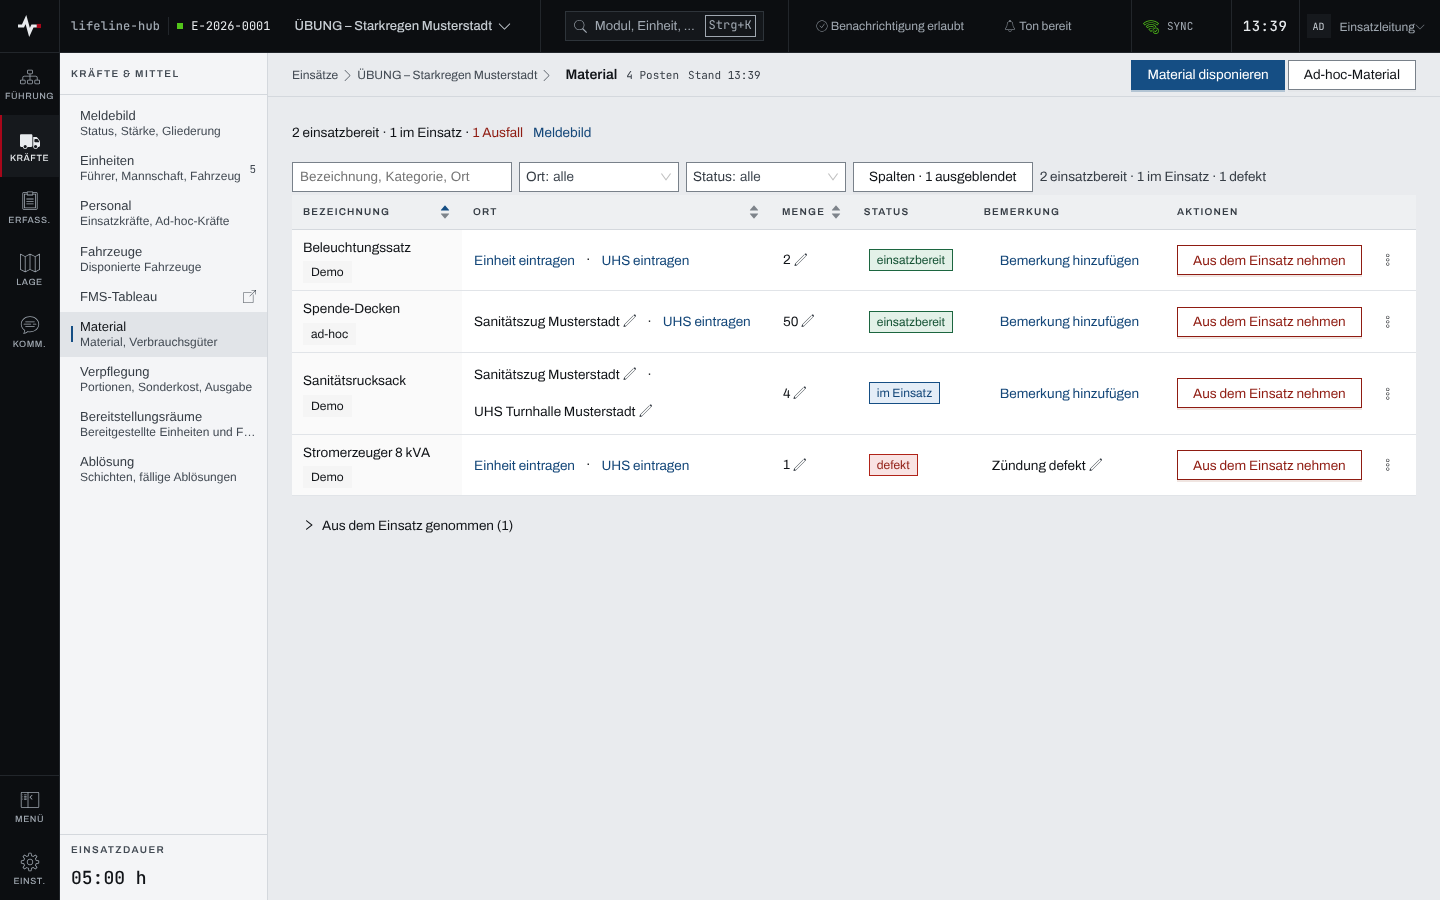
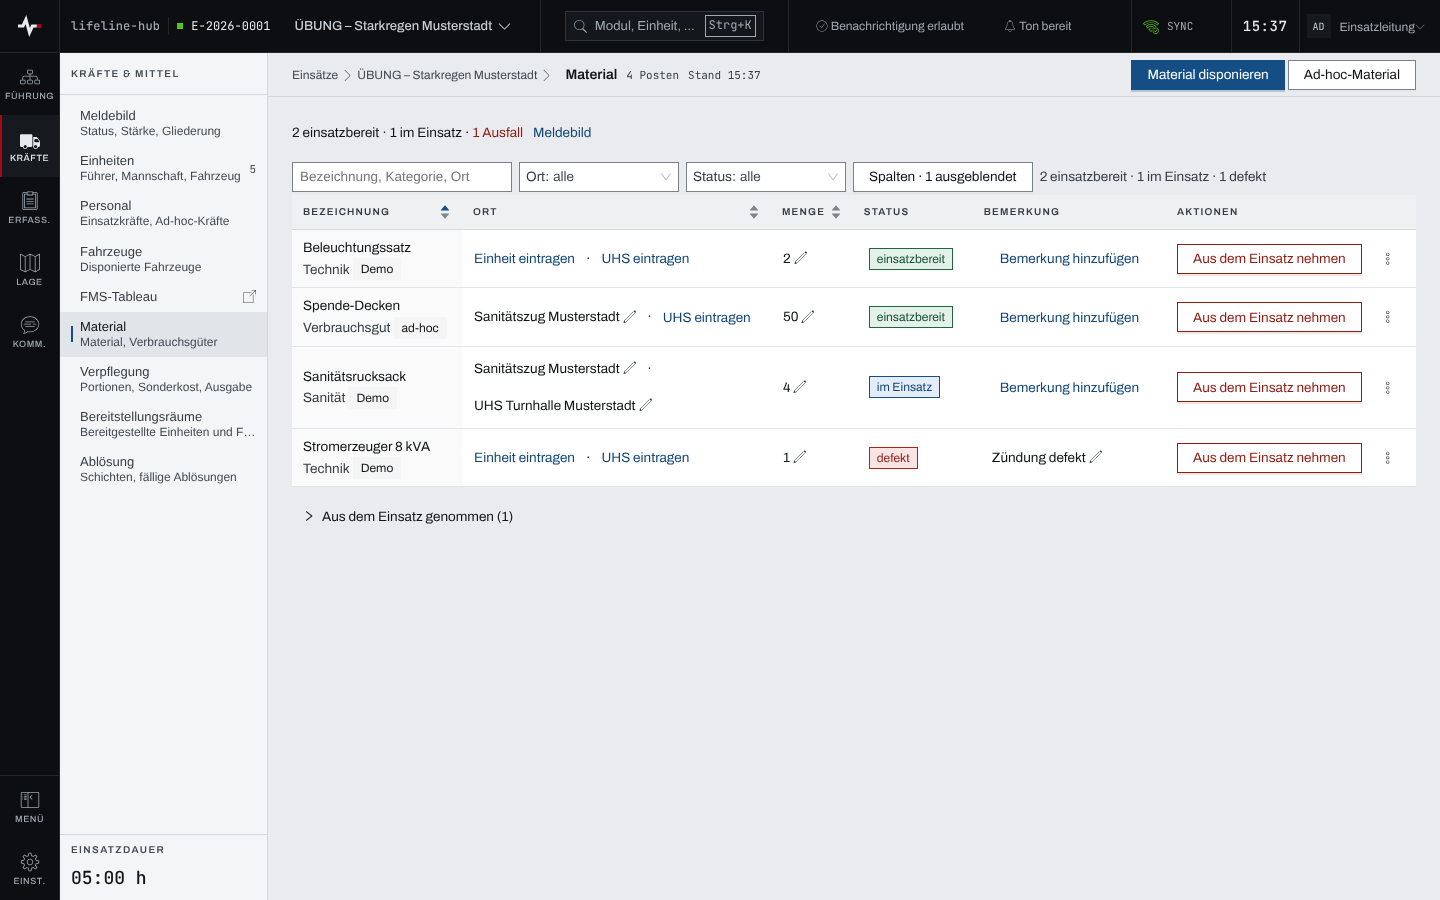
docs(material): Review-Nachzüge im Kapitel, in den Regeln und im Bild
- „Den Ort ändern“: kein Enter (die Auswahl schluckt es); aufgelöste UHS gesperrt vorn.
- Kategorie am Fükw als zweite Zeile, „Stornieren · zugeordnet“ im Ablauf Stornieren.
- quellen und Bildkopf um `kraefte/EinheitAngabe.tsx` und `kraefte/einheitAngabeKern.ts`.
- frontend/AGENTS.md: MengenFeld-Beispiel „Menge zu Wolldecke“, Material-Ausfall unter „Eine
  Heimat je Zahl“.
- material.png (hell, dunkel) neu: Kategorie unter der Bezeichnung.

Zunder: https://zunder.rubeen.dev/#/aufgabe/jg4xxyf0l8knzebcopwx32gy

Claude-Session: https://claude.ai/code/session_01DDFgqKuDE2TAXVLAHHoUGt

diff --git a/frontend/e2e/doku-bilder/material.bilder.ts b/frontend/e2e/doku-bilder/material.bilder.ts
@@ -17,7 +17,9 @@ import {
  * (`pnpm doku:bilder --grep material`, Mitänderungsregel in `docs/anwender/AGENTS.md`):
  *   material.png              frontend/src/pages/MaterialPage.tsx, frontend/src/components/Datensicht.tsx,
  *                             frontend/src/kraefte/MaterialVerdichtung.tsx,
- *                             frontend/src/kraefte/MaterialOrt.tsx
+ *                             frontend/src/kraefte/MaterialOrt.tsx,
+ *                             frontend/src/kraefte/EinheitAngabe.tsx,
+ *                             frontend/src/kraefte/einheitAngabeKern.ts
  *   material-disponieren.png  frontend/src/pages/MaterialPage.tsx (Dialog „Material disponieren“)
  *   adhoc-material.png        frontend/src/pages/MaterialPage.tsx (Dialog „Ad-hoc-Material ohne
  *                             Stammeintrag“)

diff --git a/docs/anwender/kapitel/material.md b/docs/anwender/kapitel/material.md
@@ -2,7 +2,7 @@
 titel: Material
 gruppen: [fuehrung]
 reihenfolge: 340
-quellen: [frontend/src/pages/MaterialPage.tsx, frontend/src/kraefte/MaterialOrt.tsx, frontend/src/kraefte/MaterialVerdichtung.tsx, frontend/src/kraefte/materialVerdichtungKern.ts, frontend/src/kraefte/MaterialAngabenModal.tsx, frontend/src/kraefte/MaterialAufteilenModal.tsx, frontend/src/kraefte/EntlassenBlock.tsx, frontend/src/components/InlineAngabe.tsx, frontend/src/pages/uhs/MaterialTab.tsx, frontend/src/theme/statusFarben.ts, frontend/src/stammdaten/demoAuswahl.tsx, frontend/src/components/Erfassung.tsx, frontend/src/einsatz/schreibrecht.ts, src/routes/einsatz_material.rs, src/routes/einsatz_einheit.rs, src/material/mod.rs, src/material/disposition_repo.rs, migrations/0019_einsatz_material.sql]
+quellen: [frontend/src/pages/MaterialPage.tsx, frontend/src/kraefte/MaterialOrt.tsx, frontend/src/kraefte/EinheitAngabe.tsx, frontend/src/kraefte/einheitAngabeKern.ts, frontend/src/kraefte/MaterialVerdichtung.tsx, frontend/src/kraefte/materialVerdichtungKern.ts, frontend/src/kraefte/MaterialAngabenModal.tsx, frontend/src/kraefte/MaterialAufteilenModal.tsx, frontend/src/kraefte/EntlassenBlock.tsx, frontend/src/components/InlineAngabe.tsx, frontend/src/pages/uhs/MaterialTab.tsx, frontend/src/theme/statusFarben.ts, frontend/src/stammdaten/demoAuswahl.tsx, frontend/src/components/Erfassung.tsx, frontend/src/einsatz/schreibrecht.ts, src/routes/einsatz_material.rs, src/routes/einsatz_einheit.rs, src/material/mod.rs, src/material/disposition_repo.rs, migrations/0019_einsatz_material.sql]
 ---
 
 ## Überblick
@@ -23,12 +23,13 @@ Disponieren und ändern dürfen Einsatzleitung und Führungspersonal.
 2. Die Zeile über der Liste zählt die Posten: „einsatzbereit“, „im Einsatz“ und „Ausfall“.
    „Meldebild“ führt ins Meldebild.
 
-   ![Materialliste mit vier Posten; darüber „2 einsatzbereit · 1 im Einsatz · 1 Ausfall“, in der Spalte „Ort“ der Sanitätsrucksack bei „Sanitätszug Musterstadt“ und „UHS Turnhalle Musterstadt“, je Posten „Aus dem Einsatz nehmen“](../bilder/material/material.png)
+   ![Materialliste mit vier Posten; darüber „2 einsatzbereit · 1 im Einsatz · 1 Ausfall“, unter jeder Bezeichnung gedämpft die Kategorie, in der Spalte „Ort“ der Sanitätsrucksack bei „Sanitätszug Musterstadt“ und „UHS Turnhalle Musterstadt“, je Posten „Aus dem Einsatz nehmen“](../bilder/material/material.png)
 
 3. Die Liste ist nach Status gruppiert. In „Bezeichnung, Kategorie, Ort“ suchen oder nach „Ort“
    und „Status“ filtern. Der Filter „Ort“ kennt „ohne Ort“, jede Einheit und jede UHS der Liste.
-4. Auf schmaleren Schirmen ist die Spalte „Kategorie“ ausgeblendet; „Spalten“ zeigt, wie viele
-   Spalten fehlen, und blendet sie wieder ein.
+4. Auf schmaleren Schirmen, auch am Fükw, ist die Spalte „Kategorie“ ausgeblendet; die Kategorie
+   steht dann gedämpft unter der Bezeichnung. „Spalten“ zeigt, wie viele Spalten fehlen, und
+   blendet sie wieder ein.
 
 ### Material aus dem Stamm disponieren
 
@@ -63,9 +64,10 @@ Für Einsatzleitung und Führungspersonal:
 1. In der Spalte „Ort“ den Einheitsnamen wählen, oder „Einheit eintragen“, wenn der Posten noch
    keiner Einheit gehört.
 2. Eine Einheit wählen, oder „keine Einheit“, um den Posten von seiner Einheit zu lösen.
-3. „Speichern“ wählen oder Enter drücken. Escape oder „Abbrechen“ lässt den Ort unverändert.
+3. „Speichern“ wählen. Escape oder „Abbrechen“ lässt den Ort unverändert.
 4. Für die UHS ebenso: den UHS-Namen oder „UHS eintragen“ wählen, eine UHS oder „keine UHS“
-   wählen und speichern. Angeboten werden geplante und aktive UHS.
+   wählen und speichern. Angeboten werden geplante und aktive UHS; eine aufgelöste UHS, an der
+   der Posten noch steht, steht gesperrt vorn in der Liste.
 
 Einheit und UHS sind zwei getrennte Angaben: Wer die Einheit wechselt, lässt die UHS stehen, und
 umgekehrt.
@@ -126,7 +128,9 @@ Für Einsatzleitung und Führungspersonal, wenn ein Posten den Einsatz verlässt
 
 Für Einsatzleitung und Führungspersonal, wenn ein Posten versehentlich disponiert wurde:
 
-1. In der Zeile des Postens „Weitere Aktionen“ öffnen und „Stornieren“ wählen.
+1. In der Zeile des Postens „Weitere Aktionen“ öffnen und „Stornieren“ wählen. Gehört der Posten
+   einer Einheit oder einer UHS, steht dort „Stornieren · zugeordnet“ gesperrt; dann zuerst den
+   Ort lösen oder den Posten aus dem Einsatz nehmen.
 2. Die Rückfrage „… stornieren?“ mit „Stornieren“ bestätigen.
 3. Lehnt die App ab, steht der Grund an der Zeile; der Posten lässt sich dann nur aus dem Einsatz
    nehmen.

diff --git a/frontend/AGENTS.md b/frontend/AGENTS.md
@@ -115,7 +115,8 @@ Entwürfe daneben (`neuentwurf.dc.html`, `shell.dc.html`, Inline-Styles maßgebl
   Aufträge und Meldungen (offen, in Arbeit, überfällig = davon überfällig, Bestätigung überfällig)
   nur aus dem Modulzähler (`pages/lage-dashboard/fuehrungsZahlen.ts`), nie aus einer Liste
   gezählt; Betroffene/SK über `verdichtePersonen` (→ `sichtungsbild`), Kräfte über `verdichte`,
-  Warnstufe über `verdichteGefahrengebiete`. Stärke einer Menge nur über `summiereStaerke`
+  Warnstufe über `verdichteGefahrengebiete`, Material-Ausfall (Posten mit Statusrolle Alarm oder
+  Achtung) über `kraefte/materialVerdichtungKern.ts`. Stärke einer Menge nur über `summiereStaerke`
   (Wurzeln der Menge; ein Abschnitt zählt seine obersten Einheiten wie das Meldebild), Formatierung
   nur `anzeige/staerke.ts:staerkeText`. Dashboard und Vorbereitung der Lagebesprechung teilen `useLagebild` +
   `baueLagebild`. Regeln beider Sprachen pinnt `tests/fixtures/verdichtung/regeln.json`
@@ -495,7 +496,7 @@ anwendbar), „nicht geprüft" ist keins.
   `sucheOrtImEinsatz`, ohne Einsatz `sucheOrtInOrg`), beide ohne Lagekarten-Recht; den Punkt zeigt
   `anzeige/Kartenausschnitt.tsx`. Personenadressen bekommen keine Suche (folgt mit LFH-1248).
 - **Mengen nehmen `components/MengenFeld.tsx`** (LFH-983): Pflichtname (`beschriftung`, in der
-  Zeile mit Kennung: „Menge Wolldecke“), ganze Zahlen ab 1, ohne Stufenknöpfe — rc-input-number
+  Zeile mit Kennung: „Menge zu Wolldecke“), ganze Zahlen ab 1, ohne Stufenknöpfe — rc-input-number
   benennt sie fest „Increase/Decrease Value“. Übrige nackte `InputNumber` sind Bestand; ein Riegel
   kommt erst nach dem Sweep.
 - **Zeiteingabe in der Anzeigezone** (LFH-692, Spec `zeiteingabe`,
